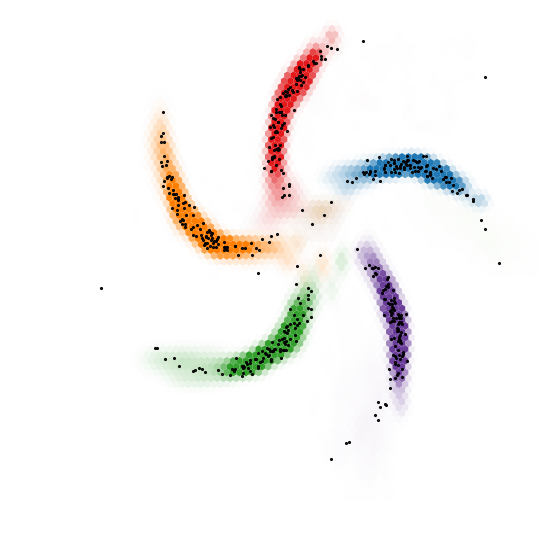
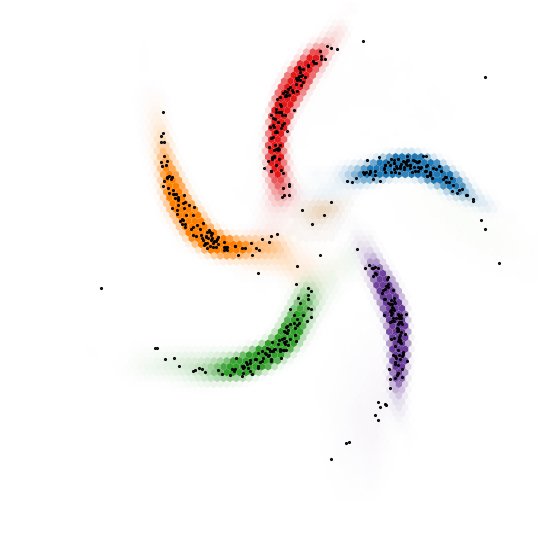
Made picures nicer by taking more samples

diff --git a/experiments/gmm_svae_synth_plot_pdfs.py b/experiments/gmm_svae_synth_plot_pdfs.py
@@ -12,7 +12,7 @@ from operator import itemgetter
 from gmm_svae_synth import *
 
 gridsize=75
-num_samples=200
+num_samples=2000
 
 colors = np.array([
 [106,61,154],  # Dark colors
